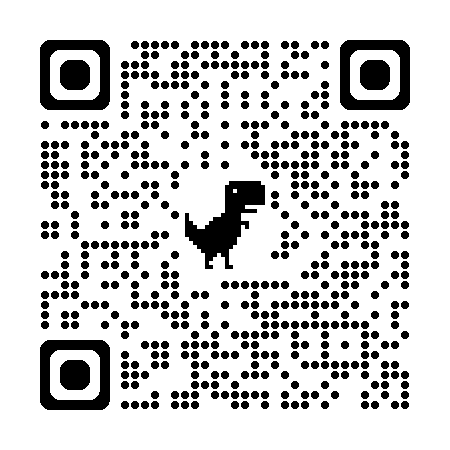
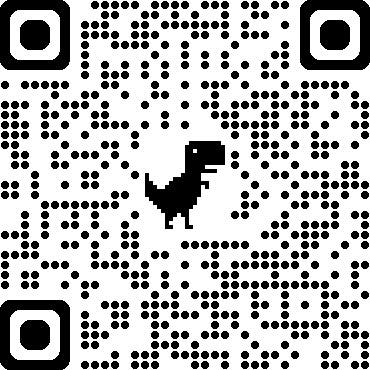
deck: unused qrcode.png deleted; "All my links" QR without its white border

diff --git a/slides.md b/slides.md
@@ -1630,7 +1630,7 @@ rule: ['Thank you', 'ggalassi.dev']
         <span><b>Rate this talk</b>in the AngularDay app</span>
       </div>
       <div class="qr-row">
-        <img src="/src/qrcode_allmylinks.png" alt="QR code to all my links" class="qr-code" />
+        <img src="/src/qrcode_allmylinks.png" alt="QR code to all my links" class="qr-code" style="background:transparent;padding:0;border-radius:0" />
         <span><b>All my links</b></span>
       </div>
     </div>
